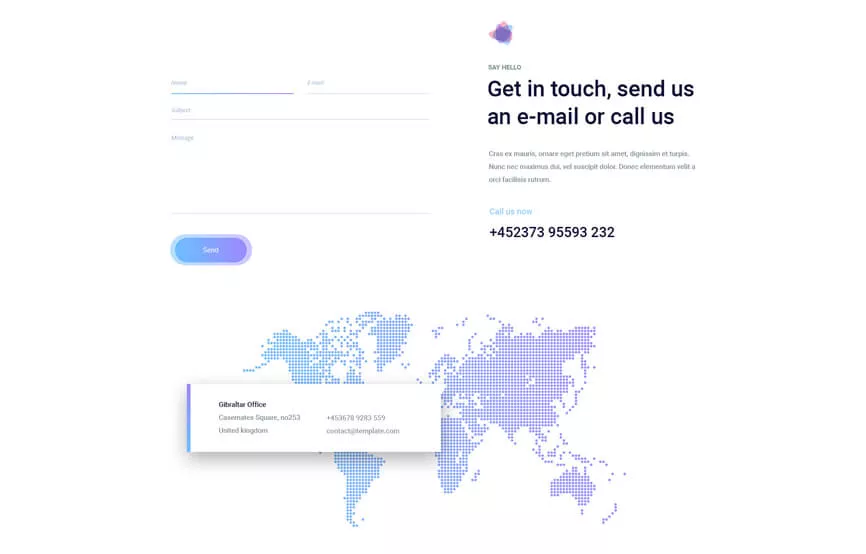
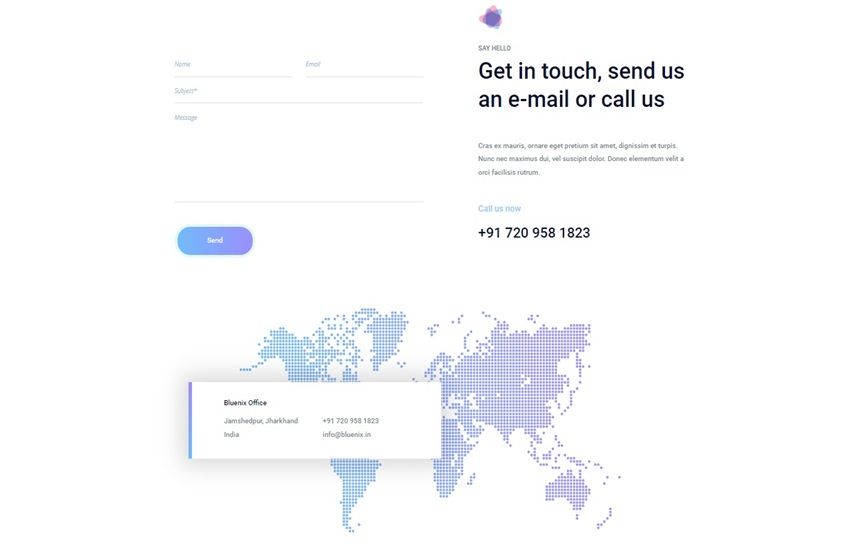
content updated in every page

diff --git a/index.php b/index.php
@@ -224,9 +224,8 @@
                                                         <img src="img/icon/f-icon-1.png" alt>
                                                 </div>
                                                 <h4>Brand Identity</h4>
-                                                <p>Etiam nec odio vestibulum est mattis effic iturut magna. Pellentesque
-                                                        sit am et tellus blandit. Etiam nec odio vestibul. </p>
-                                                <a class="more_btn" href="#">Read More</a>
+                                                <p>Developing a strong brand identity is essential for any business, including a web development company. Your brand identity is the visual and conceptual representation of your company's personality, values, and mission. It's what sets you apart and creates a lasting impression on clients. </p>
+                                                <!-- <a class="more_btn" href="#">Read More</a> -->
                                         </div>
                                 </div>
                                 <div class="col-lg-4 col-sm-6">
@@ -235,9 +234,8 @@
                                                         <img src="img/icon/f-icon-2.png" alt>
                                                 </div>
                                                 <h4>Online Marketing</h4>
-                                                <p>Etiam nec odio vestibulum est mattis effic iturut magna. Pellentesque
-                                                        sit am et tellus blandit. Etiam nec odio vestibul. </p>
-                                                <a class="more_btn" href="#">Read More</a>
+                                                <p>Online marketing, also known as digital marketing, is a crucial aspect of promoting your web development services and reaching a wider audience in the digital realm.</p>
+                                                <!-- <a class="more_btn" href="#">Read More</a> -->
                                         </div>
                                 </div>
                                 <div class="col-lg-4 col-sm-6">
@@ -246,9 +244,8 @@
                                                         <img src="img/icon/f-icon-3.png" alt>
                                                 </div>
                                                 <h4>Social Media</h4>
-                                                <p>Etiam nec odio vestibulum est mattis effic iturut magna. Pellentesque
-                                                        sit am et tellus blandit. Etiam nec odio vestibul. </p>
-                                                <a class="more_btn" href="#">Read More</a>
+                                                <p>Social media is a powerful tool for promoting your web development services, building brand awareness, and engaging with your audience. </p>
+                                                <!-- <a class="more_btn" href="#">Read More</a> -->
                                         </div>
                                 </div>
                         </div>
@@ -261,40 +258,34 @@
                         <div class="shap_slider_inner owl-carousel">
                                 <div class="item">
                                         <h4>“They are the best”</h4>
-                                        <p>Etiam nec odio vestibulum est mattis effic iturut magna. Pellentesque sit am
-                                                et tellus blandit. Etiam nec odio vestibul. Etiam nec odio vestibulum
-                                                est mattis effic iturut magna. Pellentesque sit am et tellus.</p>
+                                        <p>It's not just about functionality; it's about creating experiences that leave a lasting impression. Your success is our success, and we thrive on the joy of seeing your ideas come to life in the digital realm.</p>
                                         <div class="media">
                                                 <img src="img/team/people/people-5.jpg" alt>
                                                 <div class="media-body">
-                                                        <h5>Chriss Turner</h5>
-                                                        <h6>CEO Enterprise</h6>
+                                                        <h4>Nausher Khan</h4>
+                                                        <h5>Co-founder & CEO</h5>
                                                 </div>
                                         </div>
                                 </div>
                                 <div class="item">
                                         <h4>“They are the best”</h4>
-                                        <p>Etiam nec odio vestibulum est mattis effic iturut magna. Pellentesque sit am
-                                                et tellus blandit. Etiam nec odio vestibul. Etiam nec odio vestibulum
-                                                est mattis effic iturut magna. Pellentesque sit am et tellus.</p>
+                                        <p>It's not just about functionality; it's about creating experiences that leave a lasting impression. Your success is our success, and we thrive on the joy of seeing your ideas come to life in the digital realm.</p>
                                         <div class="media">
                                                 <img src="img/team/people/people-5.jpg" alt>
                                                 <div class="media-body">
-                                                        <h5>Chriss Turner</h5>
-                                                        <h6>CEO Enterprise</h6>
+                                                        <h4>Huzaifa Khan</h4>
+                                                        <h5>Marketing Manager</h5>
                                                 </div>
                                         </div>
                                 </div>
                                 <div class="item">
                                         <h4>“They are the best”</h4>
-                                        <p>Etiam nec odio vestibulum est mattis effic iturut magna. Pellentesque sit am
-                                                et tellus blandit. Etiam nec odio vestibul. Etiam nec odio vestibulum
-                                                est mattis effic iturut magna. Pellentesque sit am et tellus.</p>
+                                        <p>It's not just about functionality; it's about creating experiences that leave a lasting impression. Your success is our success, and we thrive on the joy of seeing your ideas come to life in the digital realm.</p>
                                         <div class="media">
                                                 <img src="img/team/people/people-5.jpg" alt>
                                                 <div class="media-body">
-                                                        <h5>Chriss Turner</h5>
-                                                        <h6>CEO Enterprise</h6>
+                                                        <h4>Shahnawaz Ahmad</h4>
+                                                        <h5>CTO</h5>
                                                 </div>
                                         </div>
                                 </div>
@@ -308,12 +299,7 @@
                                                 <h6>Discover the features</h6>
                                                 <h2>We don’t hide, we stand tall in front of chalenge</h2>
                                         </div>
-                                        <p>Etiam nec odio vestibulum est mattis effic iturut magna. Pellentesque sit am
-                                                et tellus blandit. Etiam nec odio vestibul.Cras ex mauris, ornare eget
-                                                pretium sit amet, dignissim et turpis. Nunc nec maximus dui, vel
-                                                suscipit dolor. Donec elementum velit a orci facilisis rutrum. Nam
-                                                convallis vel erat id dictum. Sed ut risus in orci convallis viverra a
-                                                eget nisi. Aenean pellentesque elit vitae eros dignissim ultrices. </p>
+                                        <p>At Bluenix, we don't just build websites, we engineer digital experiences that leave lasting impressions. As architects of the web, we combine innovation, expertise, and a passion for perfection to redefine the boundaries of online possibilities. </p>
                                 </div>
                                 <div class="shap_mobile">
                                         <img src="img/iphone4.png" alt>
@@ -333,16 +319,13 @@
                                                         <h6>Discover the features</h6>
                                                         <h2>We build a strong team of great people</h2>
                                                 </div>
-                                                <p>Cras ex mauris, ornare eget pretium sit amet, dignissim et turpis.
-                                                        Nunc nec maximus dui, vel suscipit dolor. Donec elementum velit
-                                                        a orci facilisis rutrum. Nam convallis vel erat id dictum. Sed
-                                                        ut risus in orci convallis viverra.</p>
+                                                <p>A web development journey with us is a journey with a team of exceptional individuals. Each member brings a unique set of skills, creativity, and passion to the table, forming the backbone of our success.</p>
                                                 <ul>
-                                                        <li><a href="#">Nunc nec maximus dui, </a></li>
-                                                        <li><a href="#">Aenean pellentesque elit vitae</a></li>
-                                                        <li><a href="#">Aenean pellentesque elit vitae</a></li>
-                                                        <li><a href="#">Ex mauris, ornare eget pretium </a></li>
-                                                        <li><a href="#">Cras ex mauris, ornare eget preti</a></li>
+                                                        <li><a href="javascript:void(0)">Our Greatest Asset: The Team</a></li>
+                                                        <li><a href="javascript:void(0)">Innovation Meets Expertise</a></li>
+                                                        <li><a href="javascript:void(0)">Teamwork Makes the Dream Work</a></li>
+                                                        <li><a href="javascript:void(0)">Exceptional Individuals</a></li>
+                                                        <li><a href="javascript:void(0)">Extraordinary Results</a></li>
                                                 </ul>
                                         </div>
                                 </div>
@@ -412,9 +395,7 @@
                                                         <h6>Say hello</h6>
                                                         <h2>Get in touch, send us an e-mail or call us</h2>
                                                 </div>
-                                                <p>Cras ex mauris, ornare eget pretium sit amet, dignissim et turpis.
-                                                        Nunc nec maximus dui, vel suscipit dolor. Donec elementum velit
-                                                        a orci facilisis rutrum.</p>
+                                                <p>Whether you have a project in mind, questions about our services, or just want to say hello, we're eager to hear from you. Reach out to us, and let's start a conversation that leads to digital excellence.</p>
                                                 <a href="#">
                                                         <h5>Call us now</h5>
                                                 </a>

diff --git a/about-us.php b/about-us.php
@@ -27,12 +27,9 @@
             <div class="l_title">
               <img src="img/icon/title-icon.png" alt>
               <h6>Discover the features</h6>
-              <h2>We don’t hide, we stand tall in front of chalenge</h2>
+              <h2>We don’t hide, we stand tall in front of challenge</h2>
             </div>
-            <p>Etiam nec odio vestibulum est mattis effic iturut magna. Pellentesque sit am et tellus blandit. Etiam nec
-              odio vestibul.Cras ex mauris, ornare eget pretium sit amet, dignissim et turpis. Nunc nec maximus dui, vel
-              suscipit dolor. Donec elementum velit a orci facilisis rutrum. Nam convallis vel erat id dictum. Sed ut
-              risus in orci convallis viverra a eget nisi. Aenean pellentesque elit vitae eros dignissim ultrices. </p>
+            <p>At Bluenix, we don't just build websites, we engineer digital experiences that leave lasting impressions. As architects of the web, we combine innovation, expertise, and a passion for perfection to redefine the boundaries of online possibilities. </p>
             <div class="c_video">
               <a class="popup-youtube" href="https://www.youtube.com/watch?v=62QYQE6k7tg"><img
                   src="img/icon/video-icon.png" alt>See how we work </a>
@@ -55,15 +52,14 @@
         <div class="item">
           <div class="testi_item">
             <h3>“Simply professionals”</h3>
-            <p>Etiam nec odio vestibulum est mattis effic iturut magna. Pellentesque sit am et tellus blandit. Etiam nec
-              odio vestibul. Etiam nec odio vestibulum est mattis effic iturut magna. Pellentesque sit am et tellus.</p>
+            <p>Beyond web development, we're here to connect. Your dreams and goals become ours, and together, we embark on a collaborative journey to bring them to fruition. Join us at Bluenix, where passion meets proficiency, and where your digital aspirations are not just understood but genuinely loved.</p>
             <div class="media">
               <div class="d-flex">
-                <img class="rounded-circle" src="img/testimonials/testi-1.jpg" alt>
+                <img class="rounded-circle" src="img/testimonials/user-1.png" alt>
               </div>
               <div class="media-body">
-                <h4>Maria Smith</h4>
-                <h5>CEO Enterprise</h5>
+                <h4>Nausher Khan</h4>
+                <h5>Co-founder & CEO</h5>
               </div>
             </div>
           </div>
@@ -71,15 +67,14 @@
         <div class="item">
           <div class="testi_item">
             <h3>“They are the best”</h3>
-            <p>Etiam nec odio vestibulum est mattis effic iturut magna. Pellentesque sit am et tellus blandit. Etiam nec
-              odio vestibul. Etiam nec odio vestibulum est mattis effic iturut magna. Pellentesque sit am et tellus.</p>
+            <p>It's not just about functionality; it's about creating experiences that leave a lasting impression. Your success is our success, and we thrive on the joy of seeing your ideas come to life in the digital realm.</p>
             <div class="media">
               <div class="d-flex">
-                <img class="rounded-circle" src="img/testimonials/testi-2.jpg" alt>
+                <img class="rounded-circle" src="img/testimonials/user-2.png" alt>
               </div>
               <div class="media-body">
-                <h4>Chriss Turner</h4>
-                <h5>CEO Enterprise</h5>
+                <h4>Shahnawaz Ahmad</h4>
+                <h5>CTO</h5>
               </div>
             </div>
           </div>
@@ -87,31 +82,14 @@
         <div class="item">
           <div class="testi_item">
             <h3>“We just love them”</h3>
-            <p>Etiam nec odio vestibulum est mattis effic iturut magna. Pellentesque sit am et tellus blandit. Etiam nec
-              odio vestibul. Etiam nec odio vestibulum est mattis effic iturut magna. Pellentesque sit am et tellus.</p>
+            <p>Our clients aren't just clients; they're partners in a journey toward digital brilliance. We cherish the relationships we build and are committed to creating web solutions that you'll not only be proud of but absolutely love.</p>
             <div class="media">
               <div class="d-flex">
-                <img class="rounded-circle" src="img/testimonials/testi-3.jpg" alt>
+                <img class="rounded-circle" src="img/testimonials/user-3.png" alt>
               </div>
               <div class="media-body">
-                <h4>Julie Smart</h4>
-                <h5>CEO Enterprise</h5>
-              </div>
-            </div>
-          </div>
-        </div>
-        <div class="item">
-          <div class="testi_item">
-            <h3>“Simply professionals”</h3>
-            <p>Etiam nec odio vestibulum est mattis effic iturut magna. Pellentesque sit am et tellus blandit. Etiam nec
-              odio vestibul. Etiam nec odio vestibulum est mattis effic iturut magna. Pellentesque sit am et tellus.</p>
-            <div class="media">
-              <div class="d-flex">
-                <img class="rounded-circle" src="img/testimonials/testi-1.jpg" alt>
-              </div>
-              <div class="media-body">
-                <h4>Maria Smith</h4>
-                <h5>CEO Enterprise</h5>
+                <h4>Huzaifa Khan</h4>
+                <h5>Marketing Manager</h5>
               </div>
             </div>
           </div>
@@ -131,10 +109,7 @@
               <h6>Discover the features</h6>
               <h2>We are a <span>Gibraltar</span> based Company</h2>
             </div>
-            <p>Etiam nec odio vestibulum est mattis effic iturut magna. Pellentesque sit am et tellus blandit. Etiam nec
-              odio vestibul.Cras ex mauris, ornare eget pretium sit amet, dignissim et turpis. Nunc nec maximus dui, vel
-              suscipit dolor. Donec elementum velit a orci facilisis rutrum. Nam convallis vel erat id dictum. Sed ut
-              risus in orci convallis viverra a eget nisi. Aenean pellentesque elit vitae eros dignissim ultrices. </p>
+            <p>Based in this vibrant, historic locale, we infuse every line of code with the spirit of Gibraltar. Our love for the craft and dedication to excellence echo the resilience and strength embodied by the Rock itself. While our roots are firmly planted in Gibraltar, our vision extends globally. We're not just developers; we're bridge builders, connecting your brand to the world through innovative web solutions. Embark on a digital journey with Bluenix, where the spirit of Gibraltar meets the boundless possibilities of the web. Let's build something extraordinary together. </p>
           </div>
         </div>
         <div class="col-lg-6">

diff --git a/service.php b/service.php
@@ -28,8 +28,7 @@
               <img src="img/icon/f-icon-1.png" alt>
             </div>
             <h4>Brand Identity</h4>
-            <p>Etiam nec odio vestibulum est mattis effic iturut magna. Pellentesque sit am et tellus blandit. Etiam nec
-              odio vestibul. </p>
+            <p>Developing a strong brand identity is essential for any business, including a web development company. Your brand identity is the visual and conceptual...</p>
             <a class="more_btn" href="#">Read More</a>
           </div>
         </div>
@@ -39,8 +38,7 @@
               <img src="img/icon/f-icon-2.png" alt>
             </div>
             <h4>Online Marketing</h4>
-            <p>Etiam nec odio vestibulum est mattis effic iturut magna. Pellentesque sit am et tellus blandit. Etiam nec
-              odio vestibul. </p>
+            <p>Online marketing, also known as digital marketing, is a crucial aspect of promoting your web development services and reaching a wider audience in the digital...</p>
             <a class="more_btn" href="#">Read More</a>
           </div>
         </div>
@@ -50,8 +48,7 @@
               <img src="img/icon/f-icon-3.png" alt>
             </div>
             <h4>Social Media</h4>
-            <p>Etiam nec odio vestibulum est mattis effic iturut magna. Pellentesque sit am et tellus blandit. Etiam nec
-              odio vestibul. </p>
+            <p>Social media is a powerful tool for promoting your web development services, building brand awareness, and engaging with your audience. </p>
             <a class="more_btn" href="#">Read More</a>
           </div>
         </div>

diff --git a/layouts/footer.php b/layouts/footer.php
@@ -6,7 +6,7 @@
           <div class="col-lg-4 col-sm-6">
             <aside class="f_widget f_about_widget">
               <img src="img/footer-logo.png" alt>
-              <p>Cras ex mauris, ornare eget pretium sit amet, dignissim et turpis. Nunc nec maximus dui, vel suscipit dolor. Donec elementum velit a orci facilisis rutrum.</p>
+              <p>At Bluenix, we don't just build websites, we engineer digital experiences that leave lasting impressions. As architects of the web, we combine innovation, expertise, and a passion for perfection to redefine the boundaries of online possibilities.</p>
             </aside>
           </div>
           <div class="col-lg-4 col-sm-6">

diff --git a/contact.php b/contact.php
@@ -49,8 +49,7 @@
               <h6>Say hello</h6>
               <h2>Get in touch, send us an e-mail or call us</h2>
             </div>
-            <p>Cras ex mauris, ornare eget pretium sit amet, dignissim et turpis. Nunc nec maximus dui, vel suscipit
-              dolor. Donec elementum velit a orci facilisis rutrum.</p>
+            <p>Whether you have a project in mind, questions about our services, or just want to say hello, we're eager to hear from you. Reach out to us, and let's start a conversation that leads to digital excellence.</p>
             <a href="tel:+917209581823">
               <h5>Call us now</h5>
             </a>
